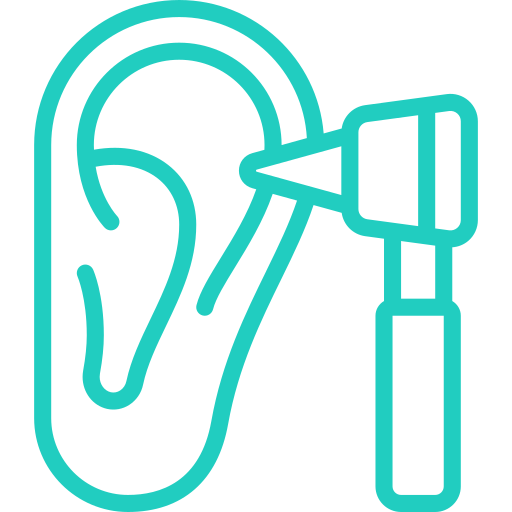
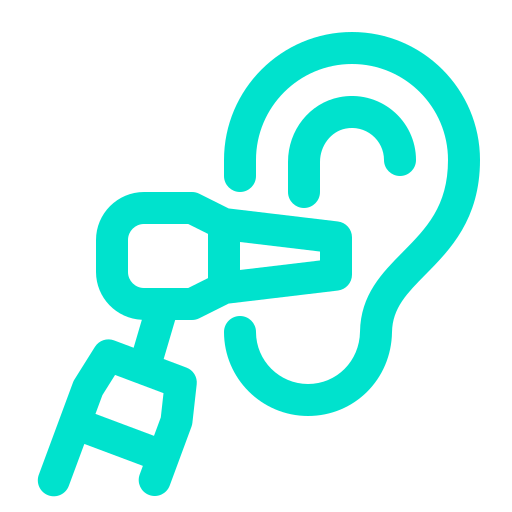
Cambios en iconos

diff --git a/js/iconos2.js b/js/iconos2.js
@@ -25,7 +25,7 @@
           document.getElementById("imgTamisaje").style.transition = "opacity 0.5s";
            document.getElementById("imgTamisaje").style.opacity = 0;
                 setTimeout(() => {
-            document.getElementById("imgTamisaje").src = "assets/images/fav-icon/tamisaje-white.png";
+            document.getElementById("imgTamisaje").src = "assets/images/fav-icon/tamisaje-2.png";
           document.getElementById("imgTamisaje").style.opacity = 1;
           }, 100);
            // Reemplaza con la URL deseada
